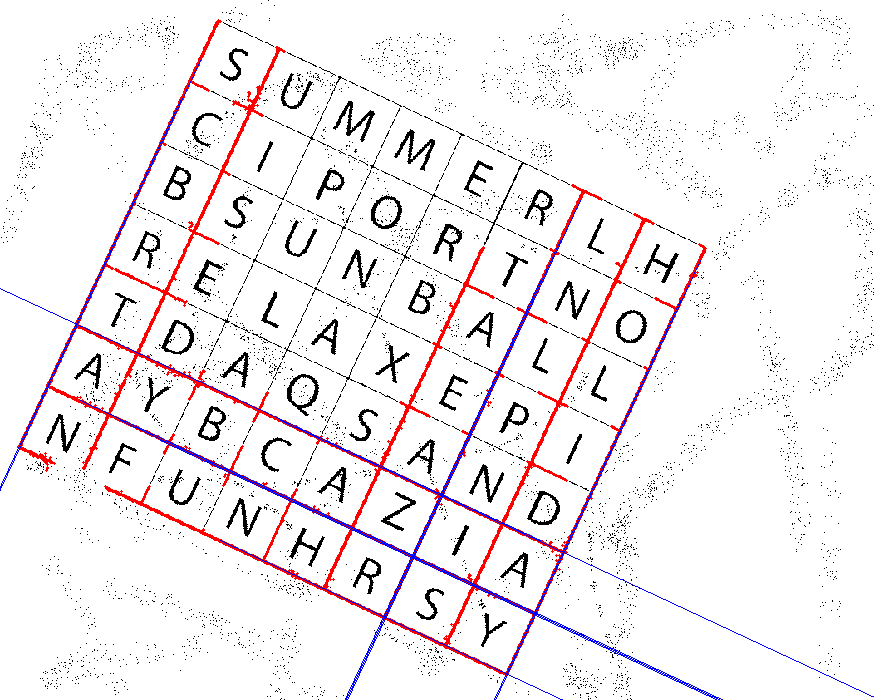
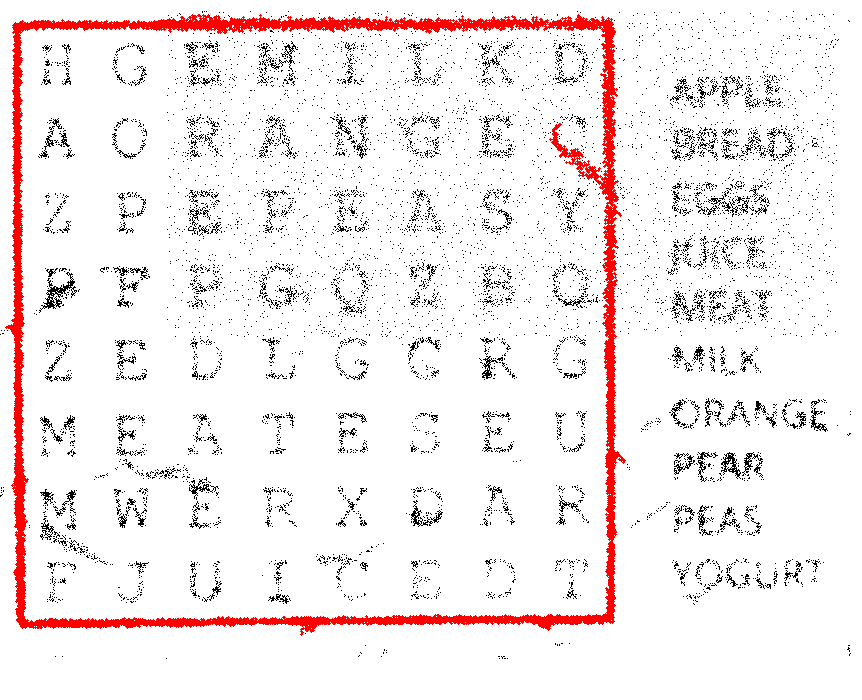
[FIX] Segfault on delete grid function

diff --git a/source/detection/src/hough_transform.c b/source/detection/src/hough_transform.c
@@ -91,8 +91,8 @@ void find_grid_lines(SDL_Surface *surface, int x, int y) {
                 // Draw line if we found enough red pixels
                 printf("Found line at angle %d with %d red pixels (length %d)\n", 
                        deg, count, len);
-                draw_line_at_angle(surface, x, y, angle, len, 
-                                 SDL_MapRGB(surface->format, 0, 0, 255));
+                // draw_line_at_angle(surface, x, y, angle, len, 
+                //                  SDL_MapRGB(surface->format, 0, 0, 255));
                 break; // Move to next angle once we find a good line
             }
         }

diff --git a/source/detection/src/main.c b/source/detection/src/main.c
@@ -239,10 +239,12 @@ int main(int argc, char *argv[]) {
                 // Reload the rotated image
                 SDL_FreeSurface(image);
                 image = load_image("output/temp_rotated.png");
-                // Remove the grid from the rotated image
-                delete_grid(image);
             }
             
+            // Remove the grid from the rotated image
+            delete_grid(image);
+            // Apply the grid detection again
+            no_grid_detection(image, IMAGE);
             save_image(image, "output/final_grid.png");
         }
     }

diff --git a/source/detection/src/delete_grid.c b/source/detection/src/delete_grid.c
@@ -13,7 +13,7 @@ void delete_grid(SDL_Surface *surface) {
 			if (is_pixel_red(pixel, surface)) {
 				// Replace red pixel with white
 				Uint32 white = SDL_MapRGB(surface->format, 255, 255, 255);
-				put_pixel(surface, x, y, white);
+                  ((Uint32 *)surface->pixels)[y * Width + x] = white;
 			}
 		}
 	}
